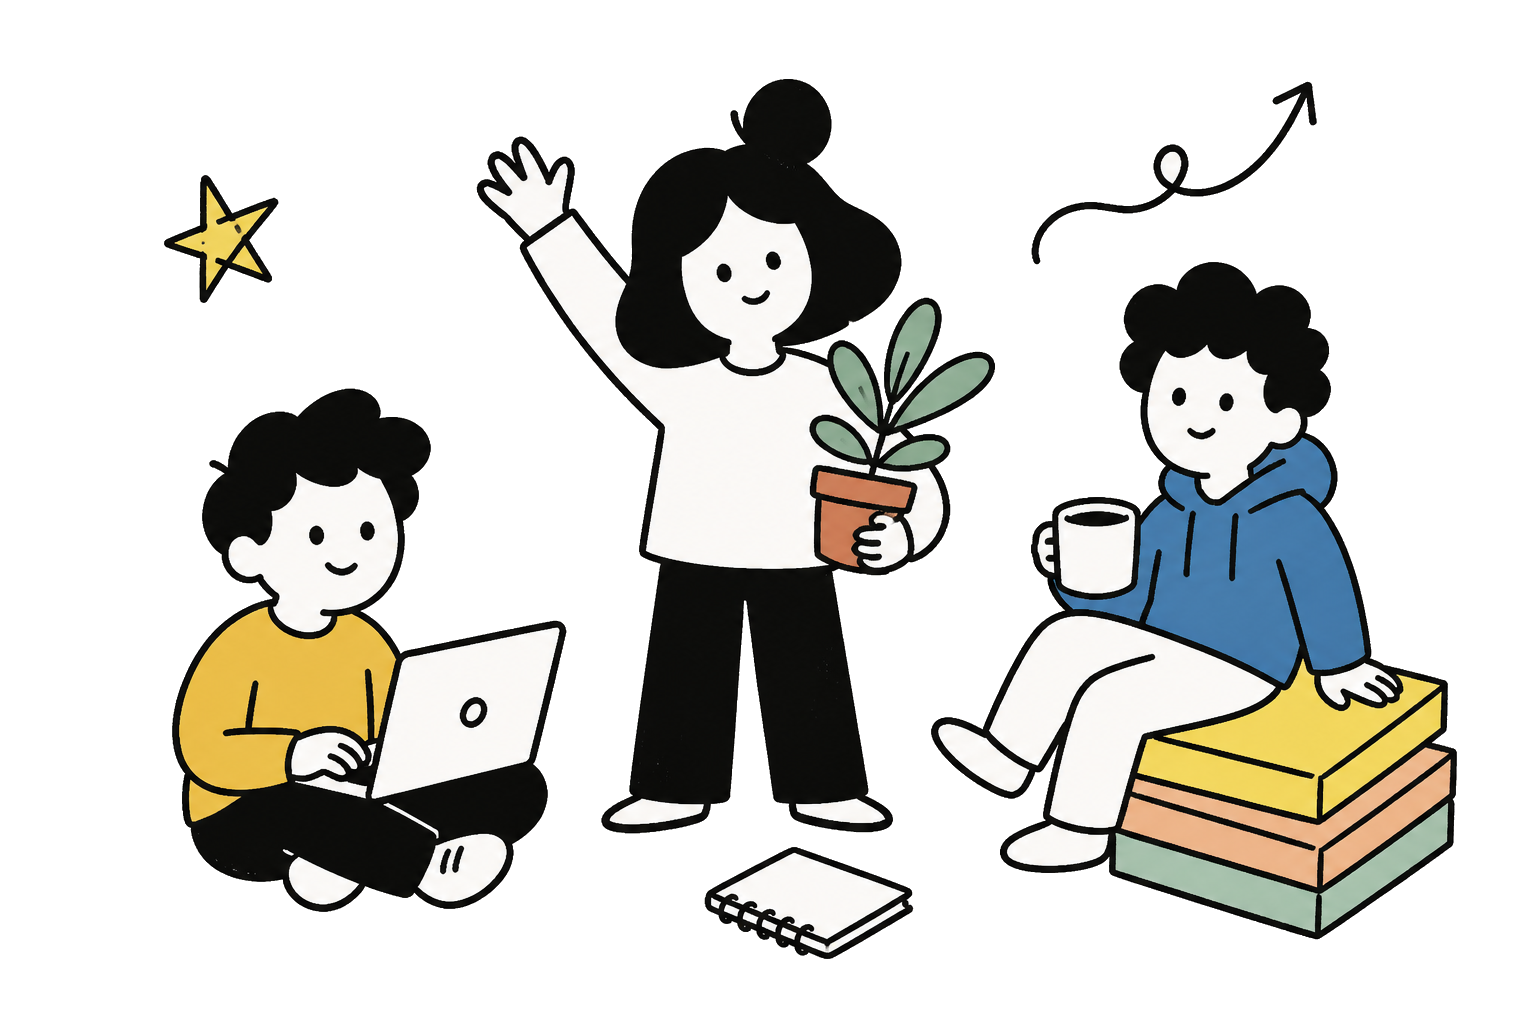
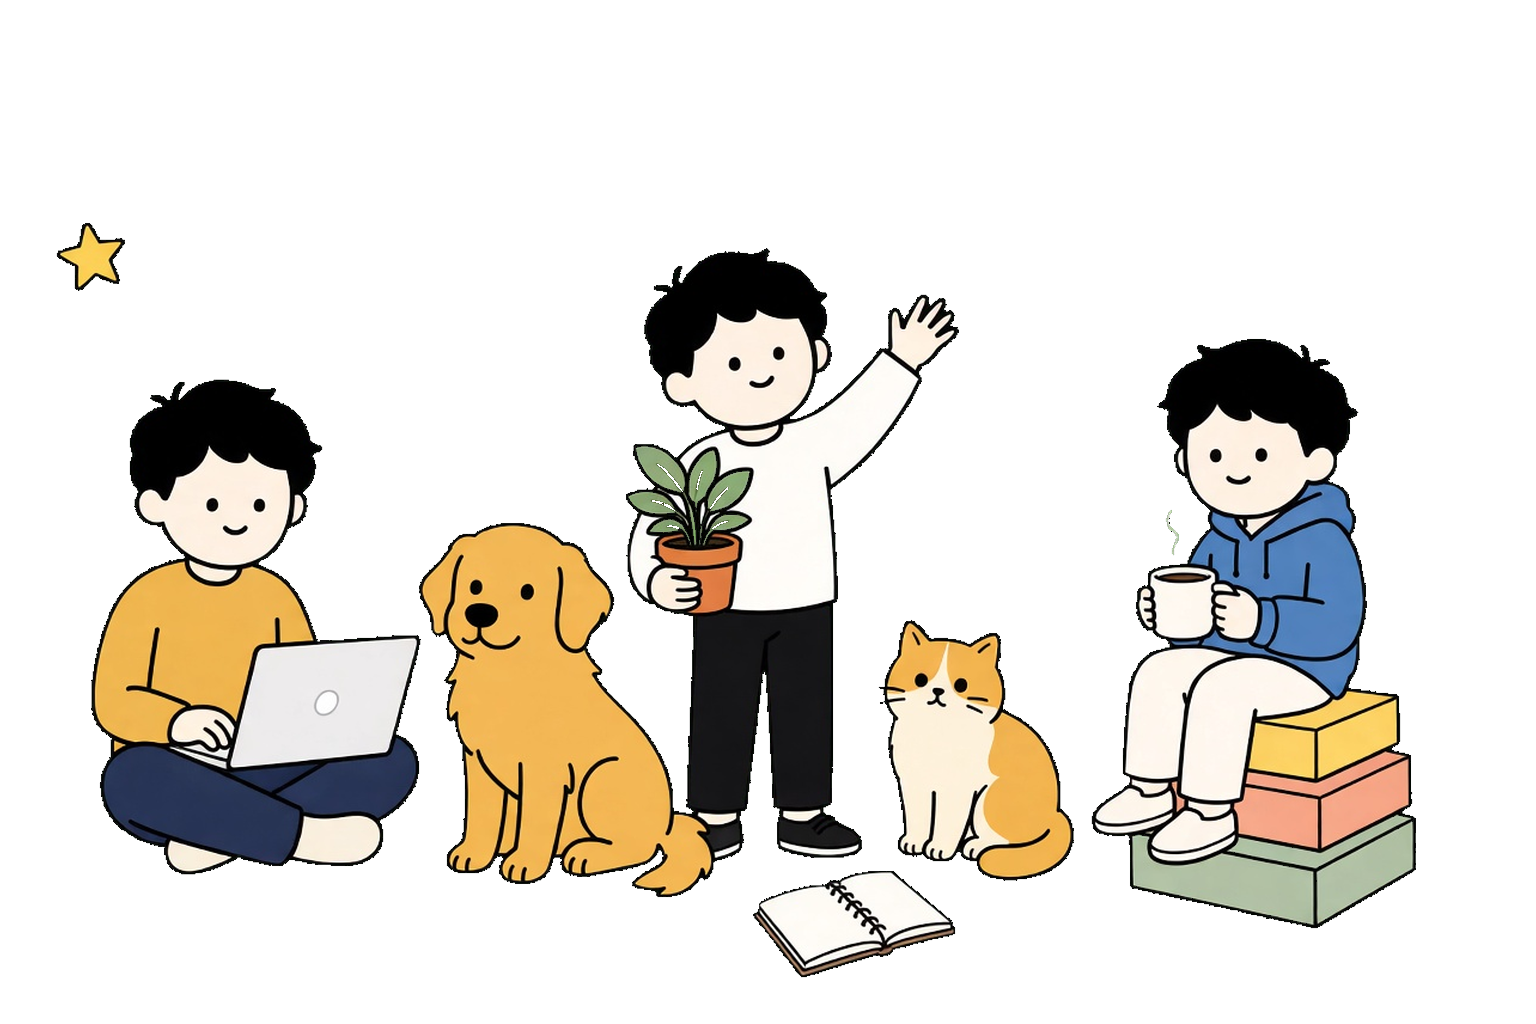
cursor add new images

diff --git a/src/components/Hero.tsx b/src/components/Hero.tsx
@@ -71,7 +71,7 @@ export function Hero() {
           />
           <Image
             src="/illustrations/hero-crew.png"
-            alt="Notion 风格卡通人物：写代码、挥手打招呼、坐在便签上喝咖啡"
+            alt="同一个 Notion 风格男生：写代码、挥手打招呼、坐在便签上喝咖啡，身边有金毛和金渐层猫咪"
             width={1536}
             height={1024}
             priority

diff --git a/src/content/articles/testhaha.md b/src/content/articles/testhaha.md
@@ -1,0 +1,9 @@
+---
+title: "哈哈"
+date: "2026-09-11"
+category: "摄影"
+summary: "这是一个测试哈哈"
+cover: "/articles/testhaha.png"
+---
+
+啊啊啊 啊啊啊啊啊啊啊啊啊啊
